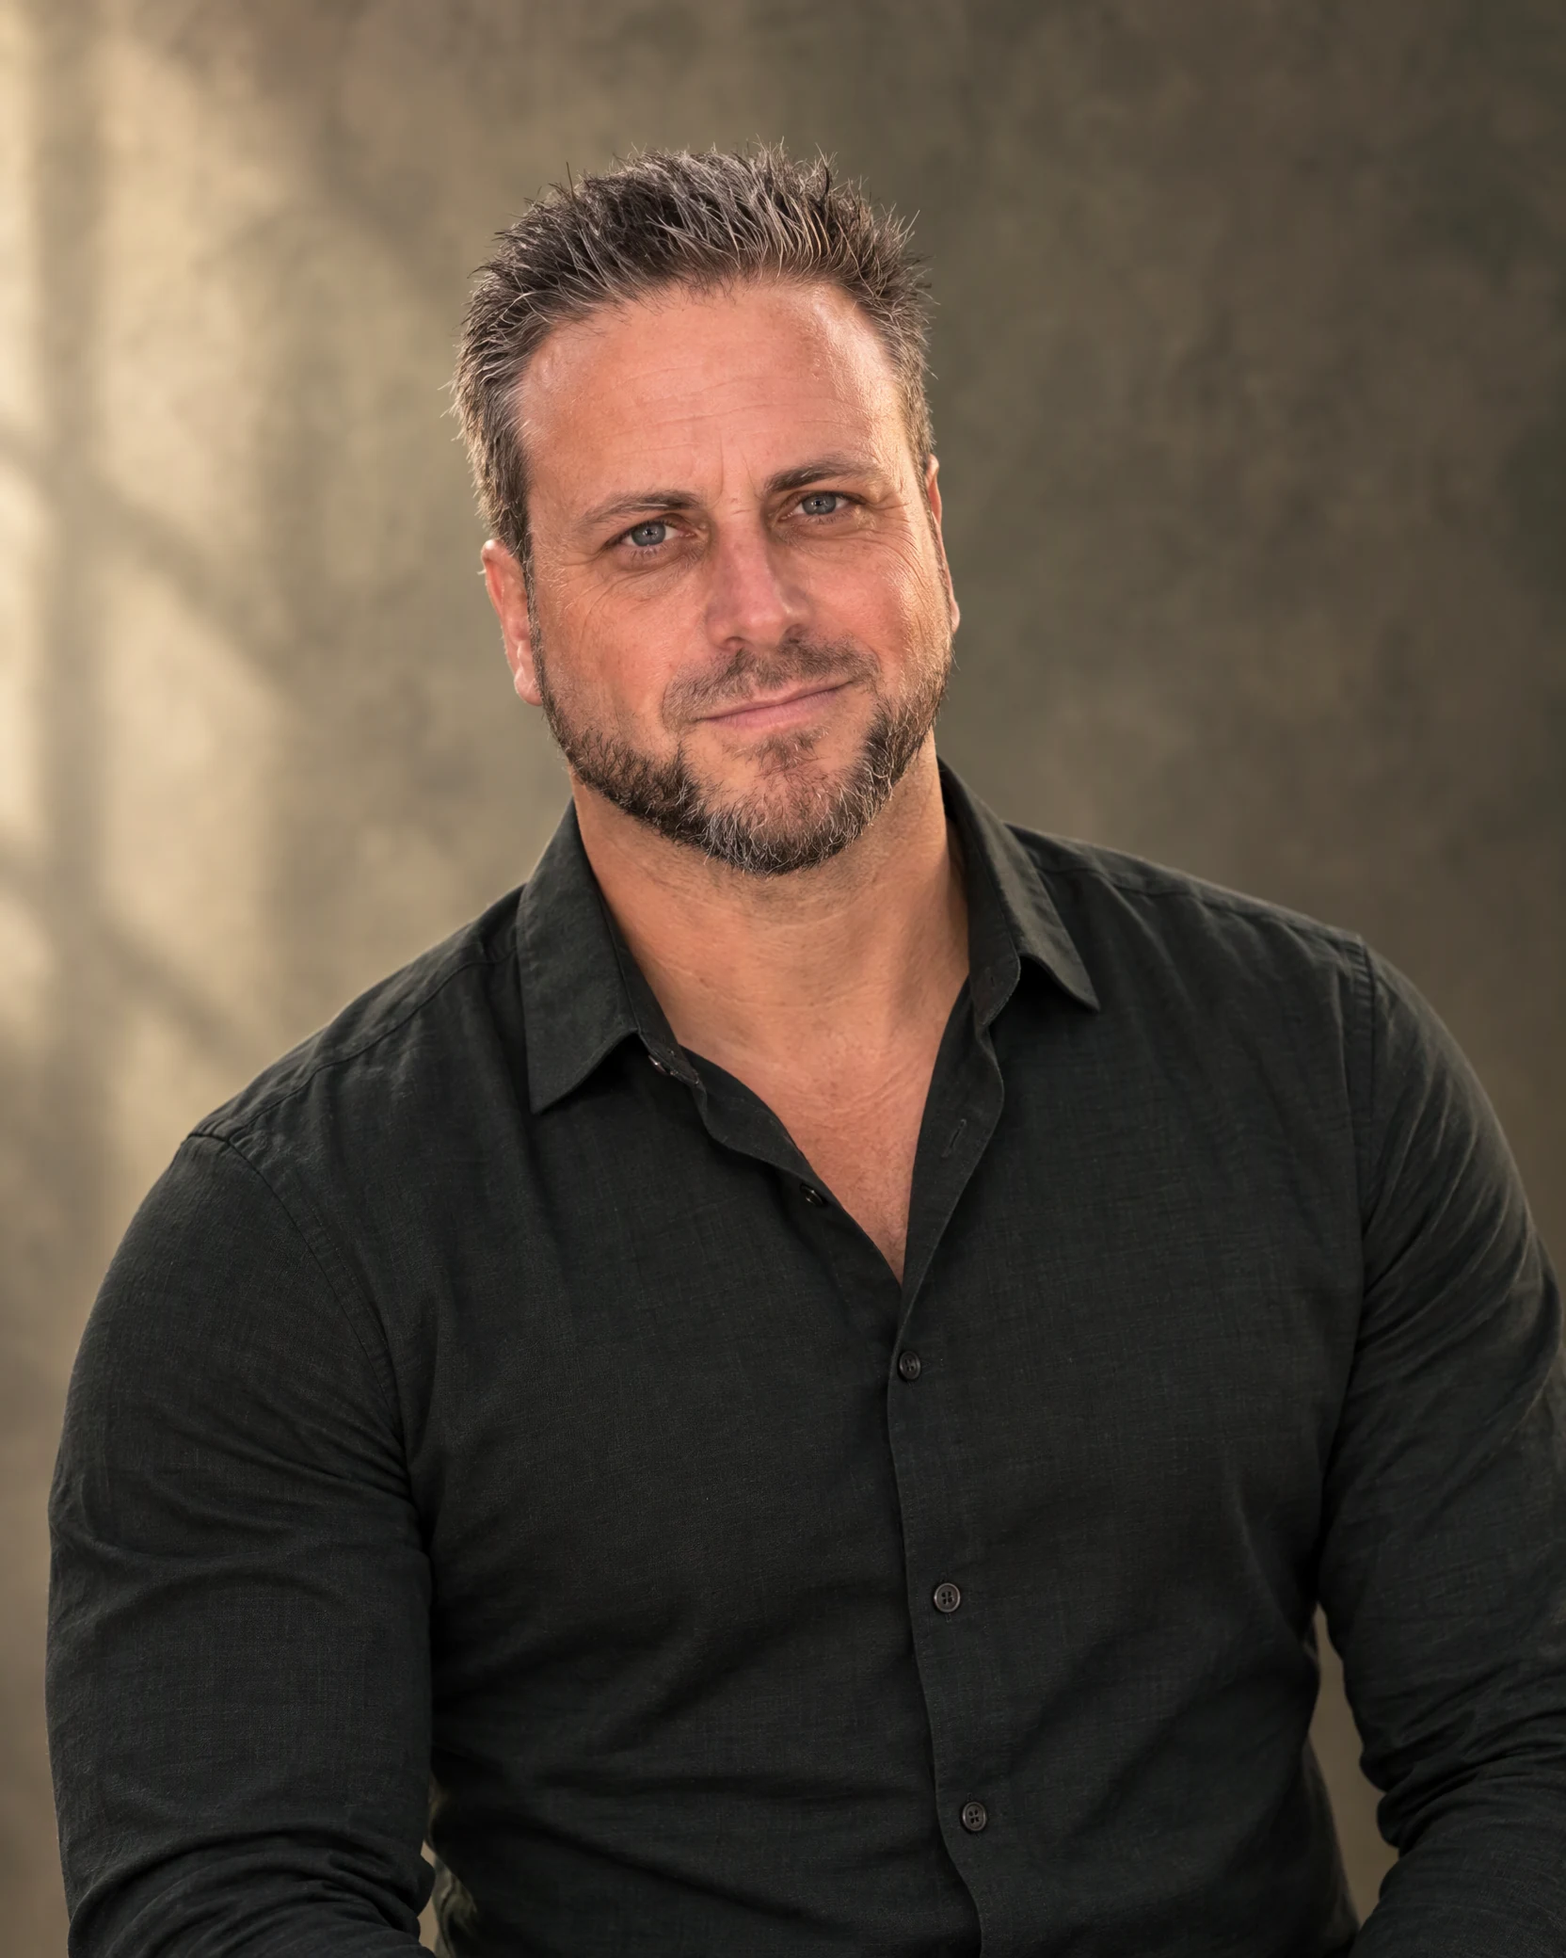
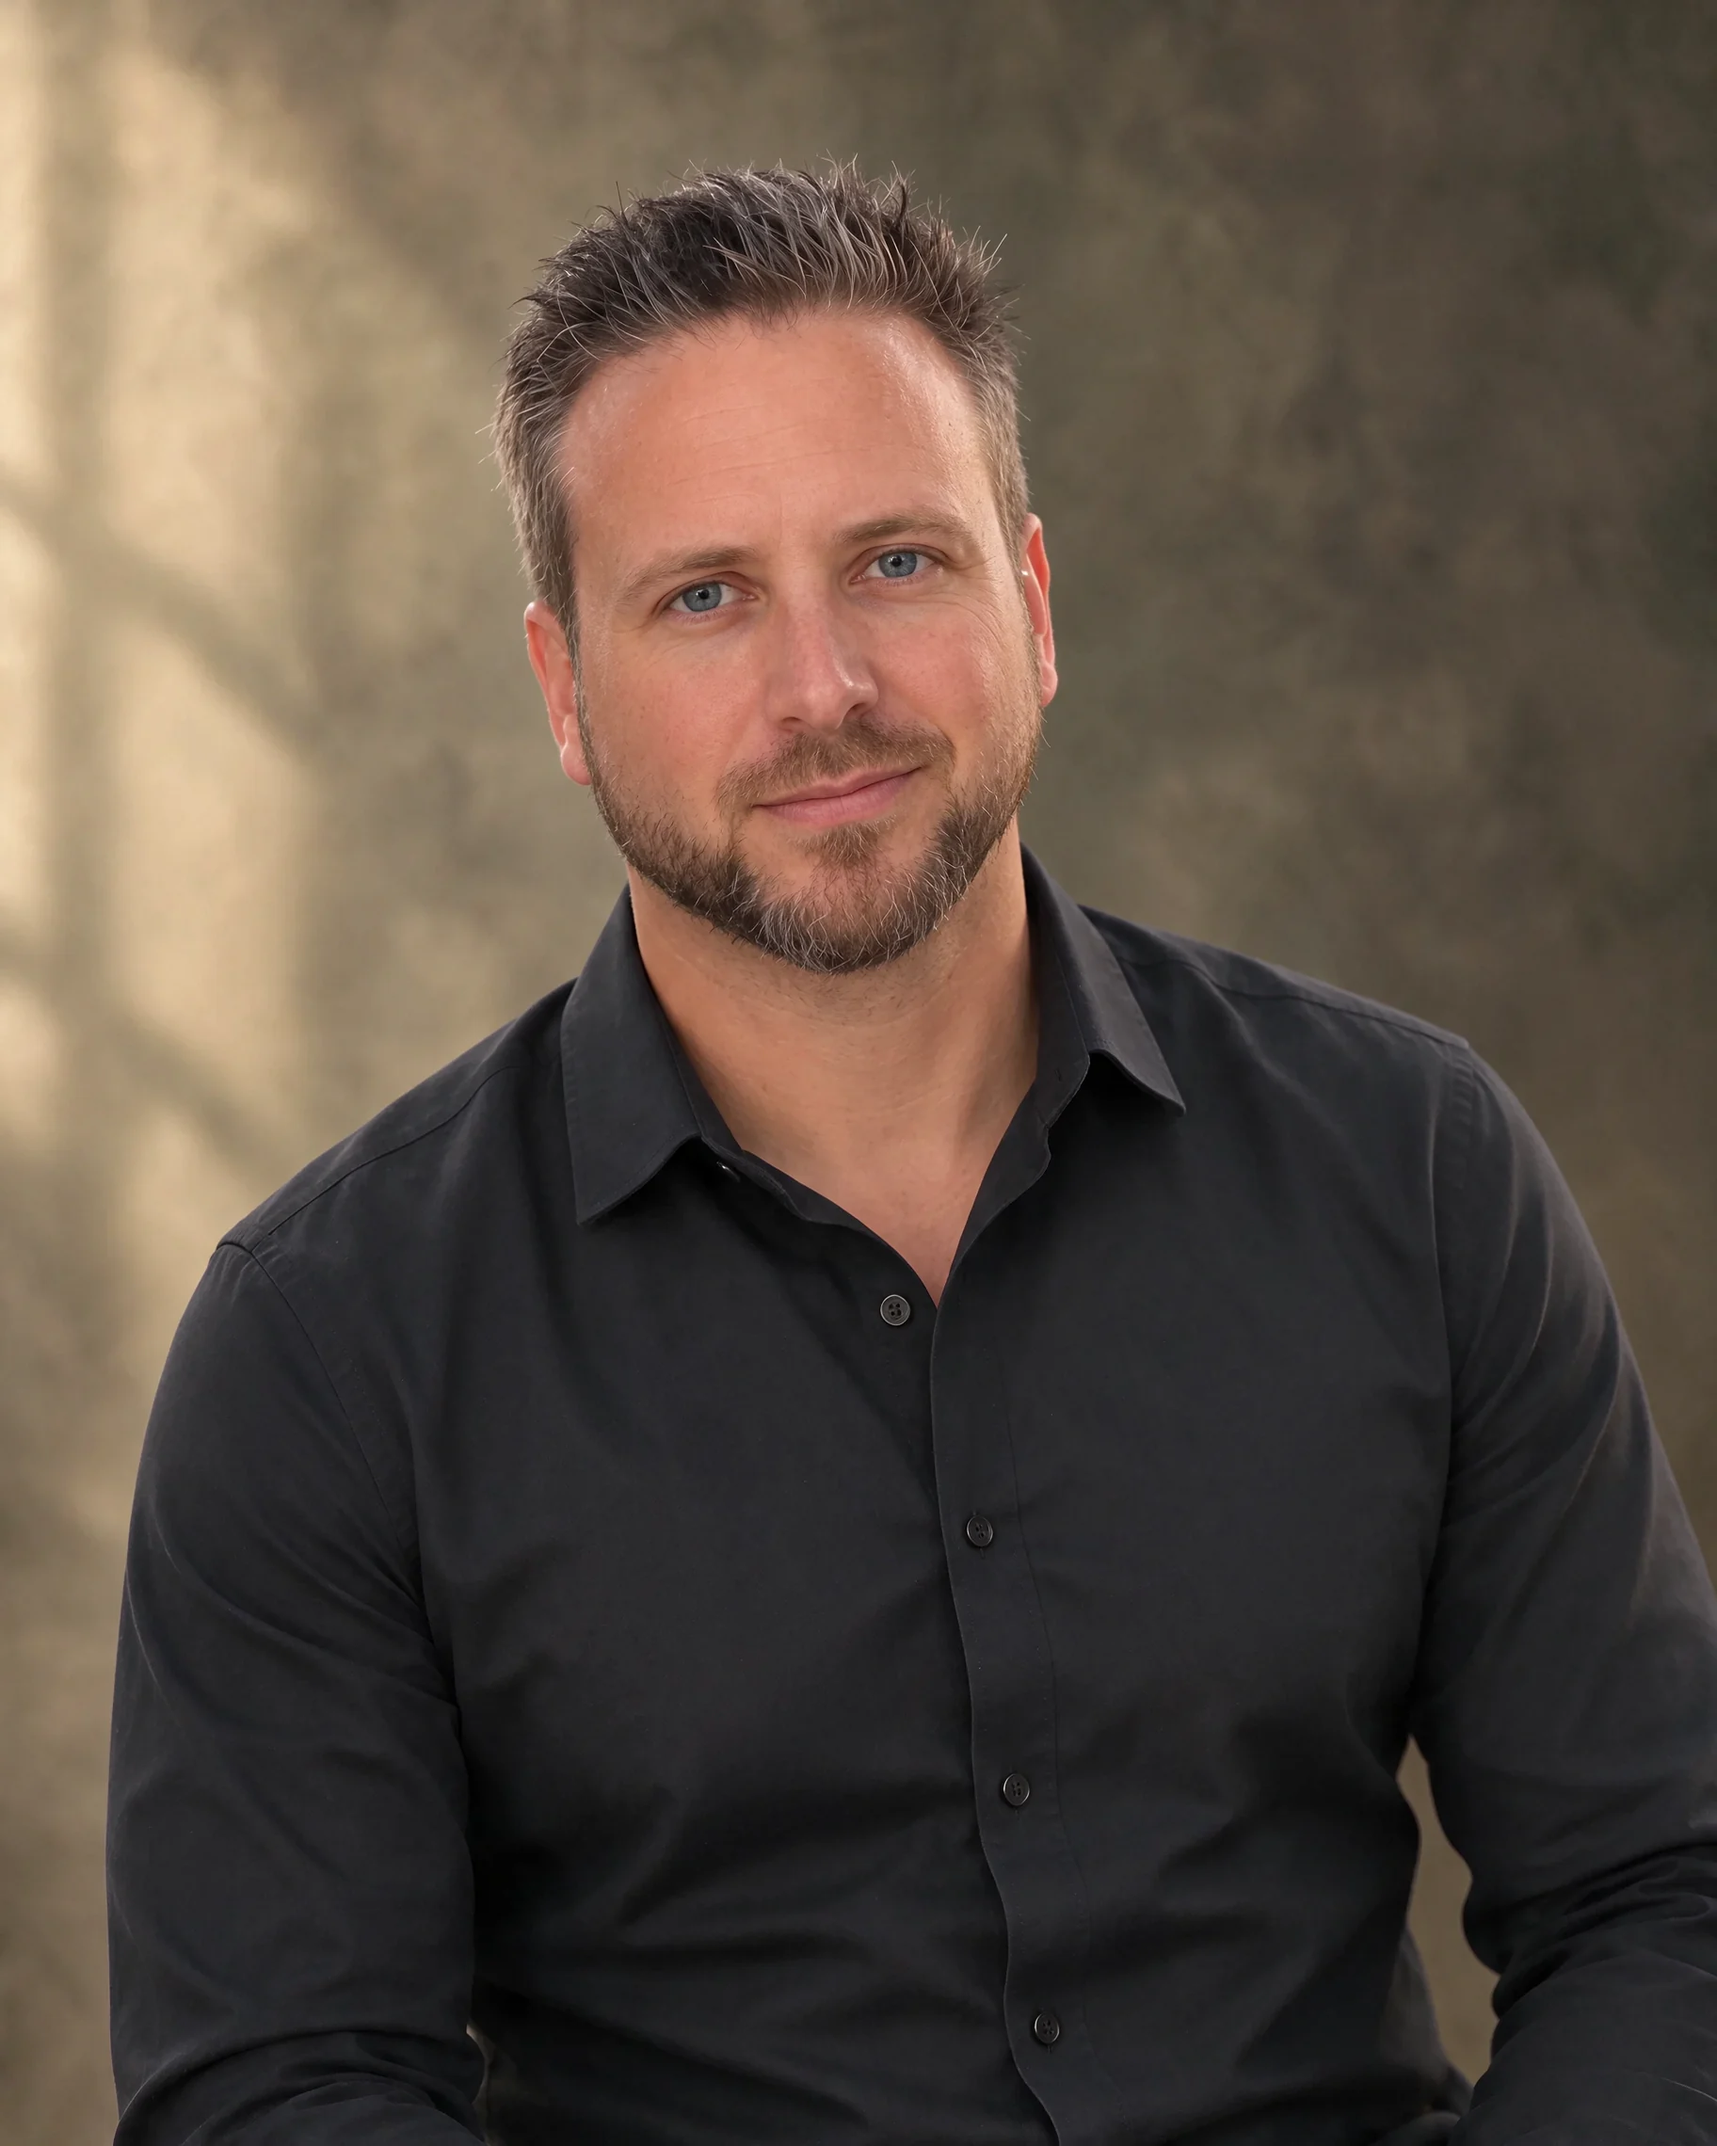
Finalize Straight Up Digital website updates

diff --git a/src/styles/global.css b/src/styles/global.css
@@ -2978,23 +2978,70 @@ a.service-catalog__card:focus-visible {
 .whatsapp-button {
   list-style: none;
   gap: 10px;
-  min-height: 50px;
-  padding: 12px 16px;
-  border: 1px solid var(--lime);
+  min-height: 56px;
+  padding: 8px 16px 8px 10px;
+  border: 1px solid rgba(168, 255, 101, 0.72);
   border-radius: 999px;
-  background: var(--lime);
-  color: var(--obsidian);
+  background: linear-gradient(145deg, #181f1a, #080b0a);
+  color: var(--ivory);
   font-size: var(--text-sm);
   font-weight: 600;
   line-height: 1;
   text-decoration: none;
   cursor: pointer;
   transition: transform var(--dur-fast) var(--ease-out),
-    background var(--dur-fast) var(--ease-out);
+    background var(--dur-fast) var(--ease-out),
+    border-color var(--dur-fast) var(--ease-out),
+    box-shadow var(--dur-fast) var(--ease-out);
 }
 
 .whatsapp-button::-webkit-details-marker {
   display: none;
+}
+
+.whatsapp-button__mark {
+  position: relative;
+  display: grid;
+  width: 36px;
+  height: 36px;
+  flex: none;
+  place-items: center;
+  border: 1px solid rgba(245, 247, 244, 0.72);
+  border-radius: 50%;
+  background: #f5f7f4;
+  box-shadow: inset 0 1px 2px rgba(255, 255, 255, 0.8), 0 2px 8px rgba(0, 0, 0, 0.24);
+}
+
+.whatsapp-button__mark img {
+  display: block;
+  width: 30px;
+  height: 30px;
+  object-fit: contain;
+}
+
+.whatsapp-button__badge {
+  position: absolute;
+  right: -5px;
+  bottom: -3px;
+  display: grid;
+  width: 18px;
+  height: 18px;
+  place-items: center;
+  border: 1px solid #080b0a;
+  border-radius: 50%;
+  background: #25d366;
+  box-shadow: 0 1px 4px rgba(0, 0, 0, 0.3);
+}
+
+.whatsapp-button__badge svg {
+  display: block;
+  width: 11px;
+  height: 11px;
+}
+
+.whatsapp-button:focus-visible {
+  outline: 3px solid var(--lime);
+  outline-offset: 4px;
 }
 
 .whatsapp-menu__panel {
@@ -3039,13 +3086,9 @@ a.service-catalog__card:focus-visible {
 
 .whatsapp-button:hover {
   transform: translateY(-2px);
-  background: #b9ff86;
-}
-
-.whatsapp-button svg {
-  width: 22px;
-  height: 22px;
-  flex: none;
+  border-color: #25d366;
+  background: linear-gradient(145deg, #202b22, #101512);
+  box-shadow: 0 10px 28px rgba(0, 0, 0, 0.38), 0 0 0 3px rgba(37, 211, 102, 0.12);
 }
 
 .back-to-top {
@@ -3098,16 +3141,32 @@ body.has-open-menu .floating-actions {
   }
 
   .whatsapp-button {
-    min-height: 48px;
-    width: 48px;
+    min-height: 52px;
+    width: 52px;
+    height: 52px;
     padding: 0;
     gap: 0;
     font-size: 0;
   }
 
-  .whatsapp-button svg {
-    width: 21px;
-    height: 21px;
+  .whatsapp-button__mark {
+    width: 34px;
+    height: 34px;
+  }
+
+  .whatsapp-button__mark img {
+    width: 28px;
+    height: 28px;
+  }
+
+  .whatsapp-button__badge {
+    width: 17px;
+    height: 17px;
+  }
+
+  .whatsapp-button__badge svg {
+    width: 10px;
+    height: 10px;
   }
 
   .back-to-top {
@@ -3724,12 +3783,6 @@ body.has-open-menu .floating-actions {
   font-weight: 700;
   letter-spacing: 0.08em;
   text-transform: uppercase;
-}
-.package-icon {
-  width: 42px;
-  height: 42px;
-  object-fit: contain;
-  margin-bottom: -4px;
 }
 .package-slot--retainer h3 {
   color: var(--on-ivory);

diff --git a/src/data/services.ts b/src/data/services.ts
@@ -144,15 +144,17 @@ export const services: Service[] = [
     title: "Website design and development",
     status: "on-request",
     summary:
-      "Confirmed once-off packages: One-Page Starter R1,500; Five-Page Business R3,500; Restaurant & Café R3,950; Guest House & Stay R4,500; Bookings & Appointments R5,500; and Small Online Shop R7,500. Standalone builds are paid 50% to start and 50% at launch, after a preview. Discounted annual bundles are paid in full upfront and include the build plus the first year of hosting; annual renewals begin after that year. Hosting is separate for standalone builds from R129/month.",
+      "Choose a fixed-scope website package, from a one-page starter to a small online shop. Custom features can be scoped separately.",
     forWho:
       "Businesses with an outdated site, a template that no longer fits, or no site at all.",
     value:
       "A credible first impression, a clear structure and a site that works on the phone your customers actually use.",
     receive: [
       "The pages, buttons, content types and revision rounds listed for the selected package",
+      "Fixed prices range from the R1,500 One-Page Starter to the R7,500 Small Online Shop",
       "Client-supplied words, logo and photos for the Five-Page Business package",
       "Standalone builds: 50% to start and 50% at launch after a preview; discounted annual bundles are paid in full and include the first hosting year",
+      "Hosting is separate for standalone builds from R129/month",
       "Booking-tool fees paid by the client for the Bookings & Appointments package",
       "Small Online Shop orders by WhatsApp or email; live Paystack checkout is not active and needs successful end-to-end testing and SinJin's confirmation",
     ],

diff --git a/src/styles/redesign.css b/src/styles/redesign.css
@@ -217,7 +217,7 @@ a.service-list__row:hover { background: rgba(183,255,0,.035); }
 .faq__item, .faq { border-color: var(--line); }
 .faq__answer { color: var(--silver); }
 .sticky-audit { background: rgba(8,11,10,.97); }
-.whatsapp-button { background: var(--lime); border-color: var(--lime); color: var(--obsidian); }
+  .whatsapp-button { background: linear-gradient(145deg,#181f1a,#080b0a); border-color: rgba(168,255,101,.72); color: var(--ivory); }
 .back-to-top { border-color: rgba(183,255,0,.58); background: rgba(16,21,18,.98); }
 
 /* Homepage-specific visual system. */
@@ -726,7 +726,7 @@ body {
     background-position:center,center,right -100px center;
   }
   .floating-actions { right:16px; left:auto; width:auto; justify-content:flex-end; gap:10px; }
-  .whatsapp-button { min-height:48px; width:48px; height:48px; padding:0; gap:0; font-size:0; }
+  .whatsapp-button { min-height:52px; width:52px; height:52px; padding:0; gap:0; font-size:0; }
   .whatsapp-menu__panel { right:0; left:auto; }
   .page-hero__inner { align-items:center; text-align:center; }
   .page-hero__title, .page-hero__lede { margin-inline:auto; text-align:center; }

diff --git a/src/pages/robots.txt.ts b/src/pages/robots.txt.ts
@@ -1,12 +1,13 @@
 import type { APIRoute } from "astro";
 
 export const GET: APIRoute = ({ site }) => {
-  const base = site ?? new URL("http://localhost:4321");
+  if (!site) throw new Error("Set the public site origin in astro.config.mjs before rendering robots.txt.");
+  const base = site;
   const sitemap = new URL("sitemap-index.xml", base).toString();
 
   const body = `User-agent: *
 Allow: /
-Disallow: /thank-you
+Disallow: /api/
 
 Sitemap: ${sitemap}
 `;
